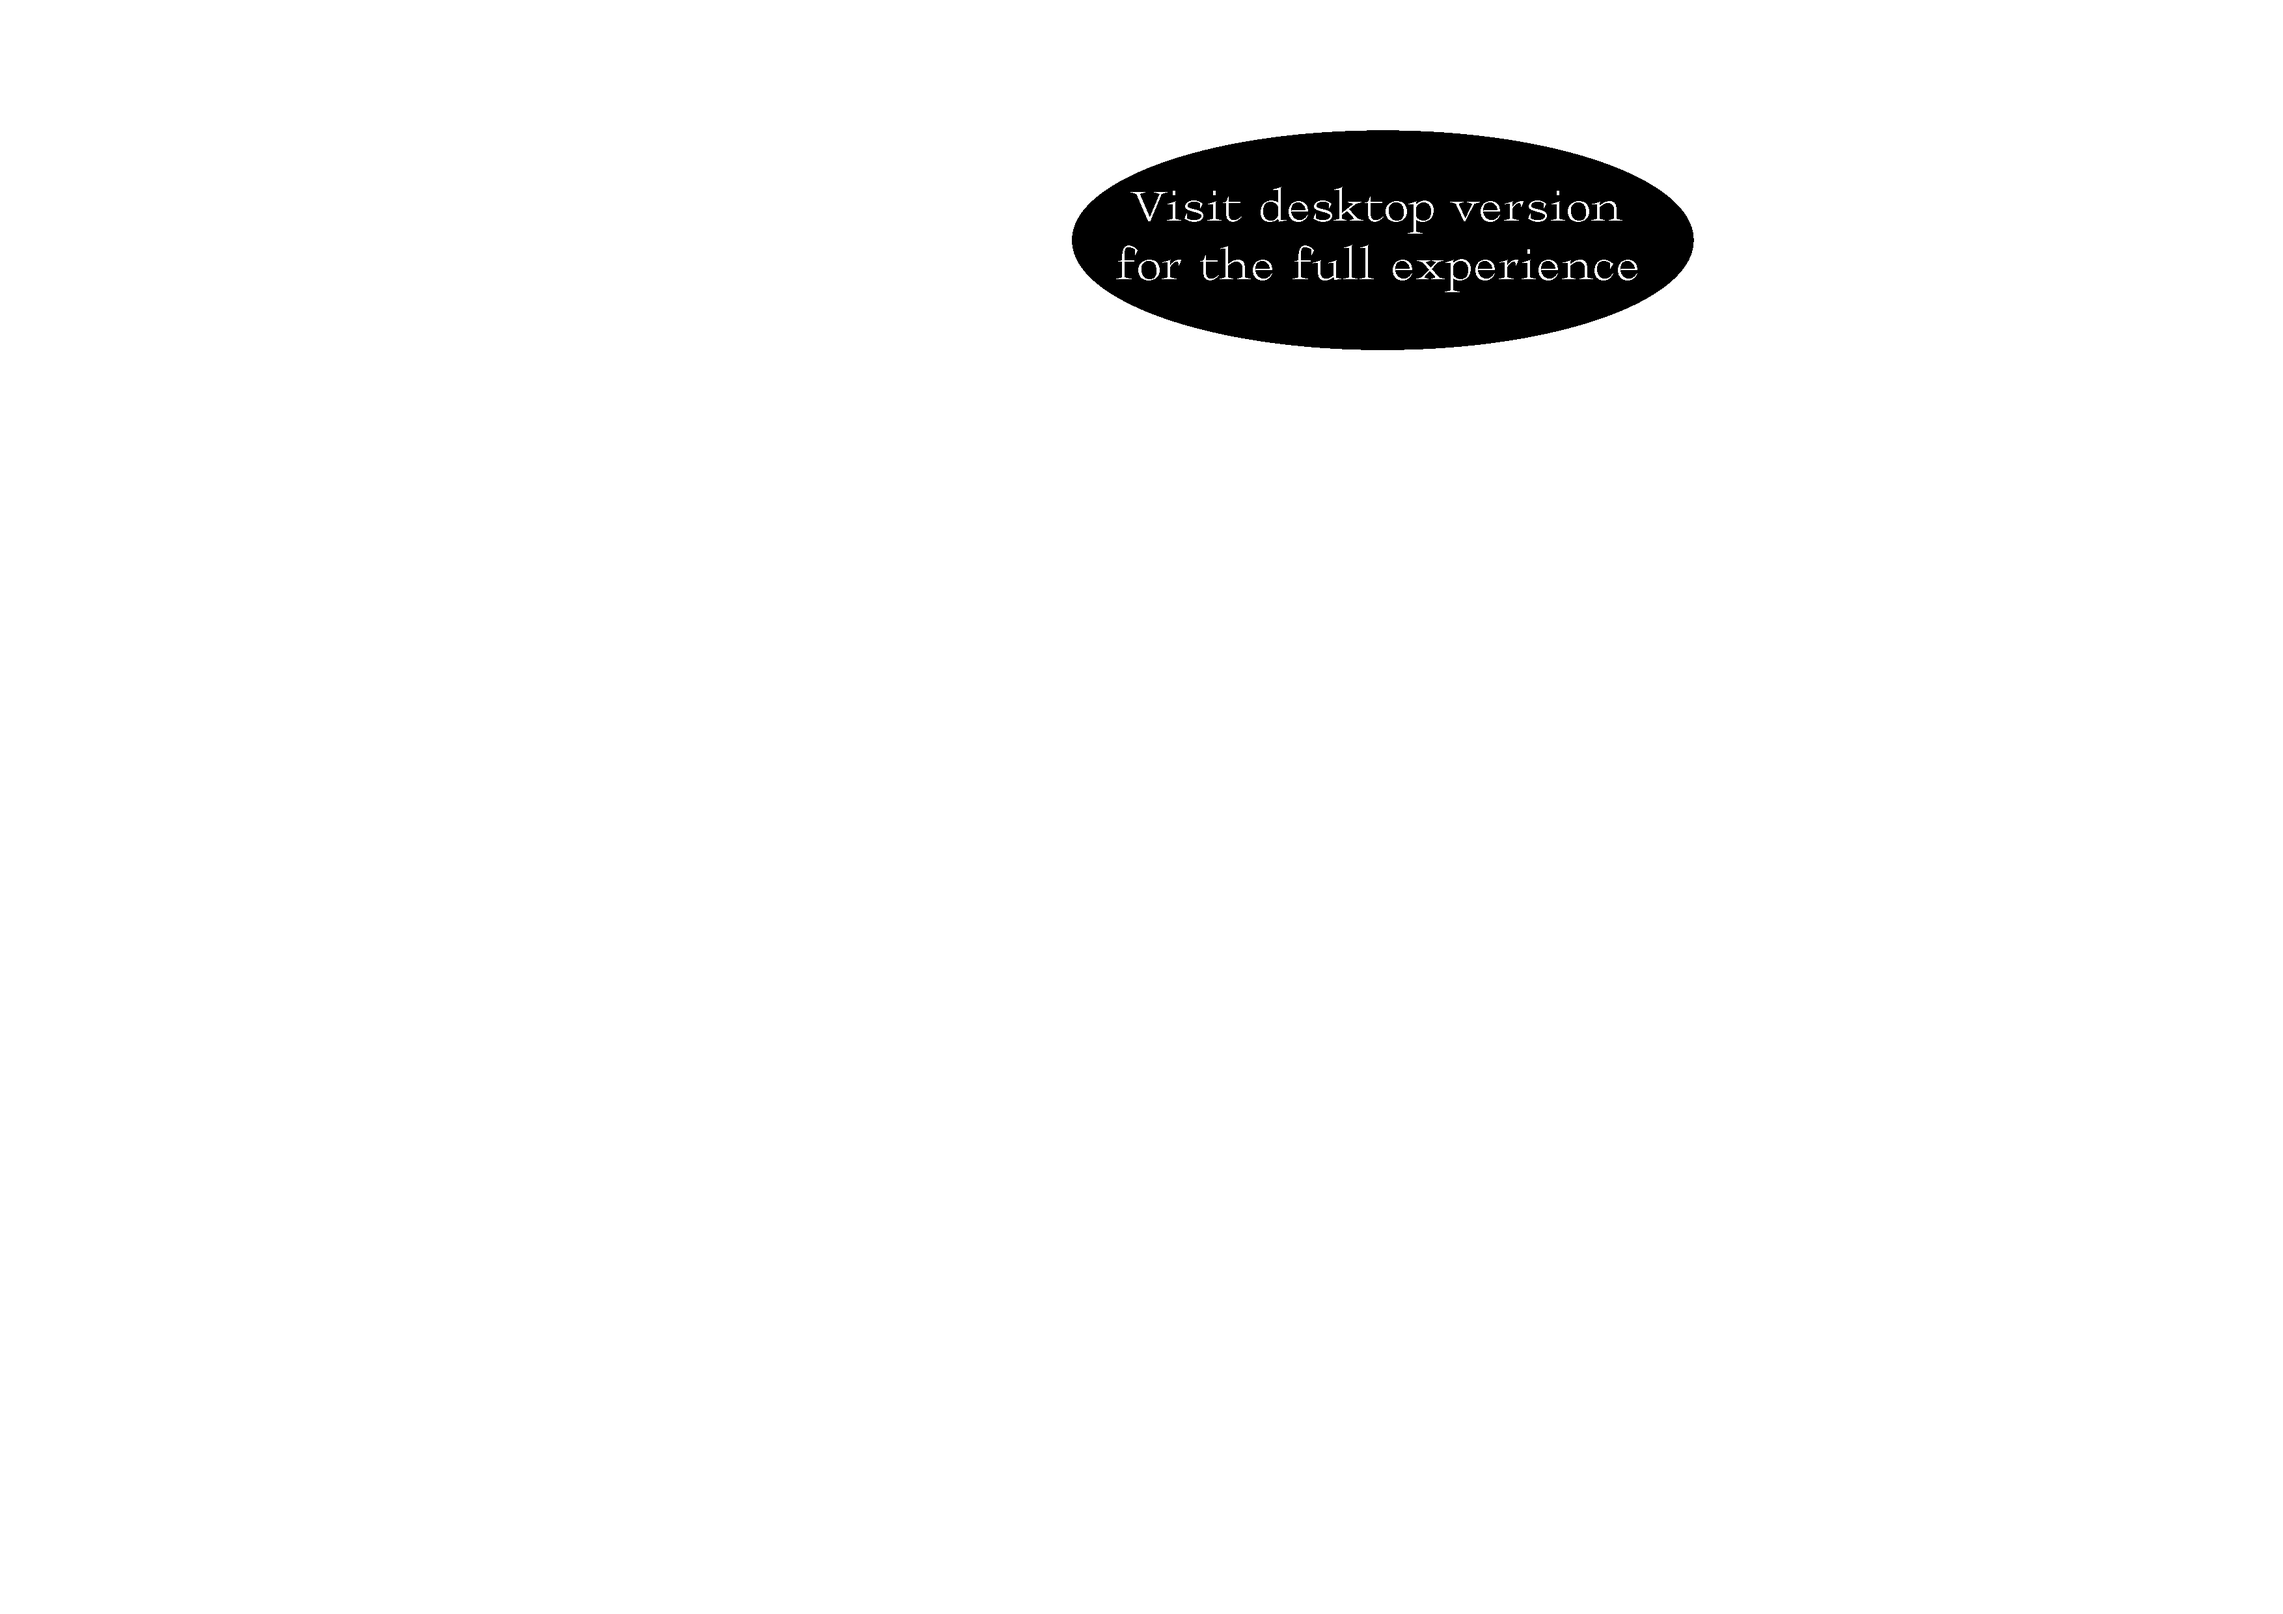
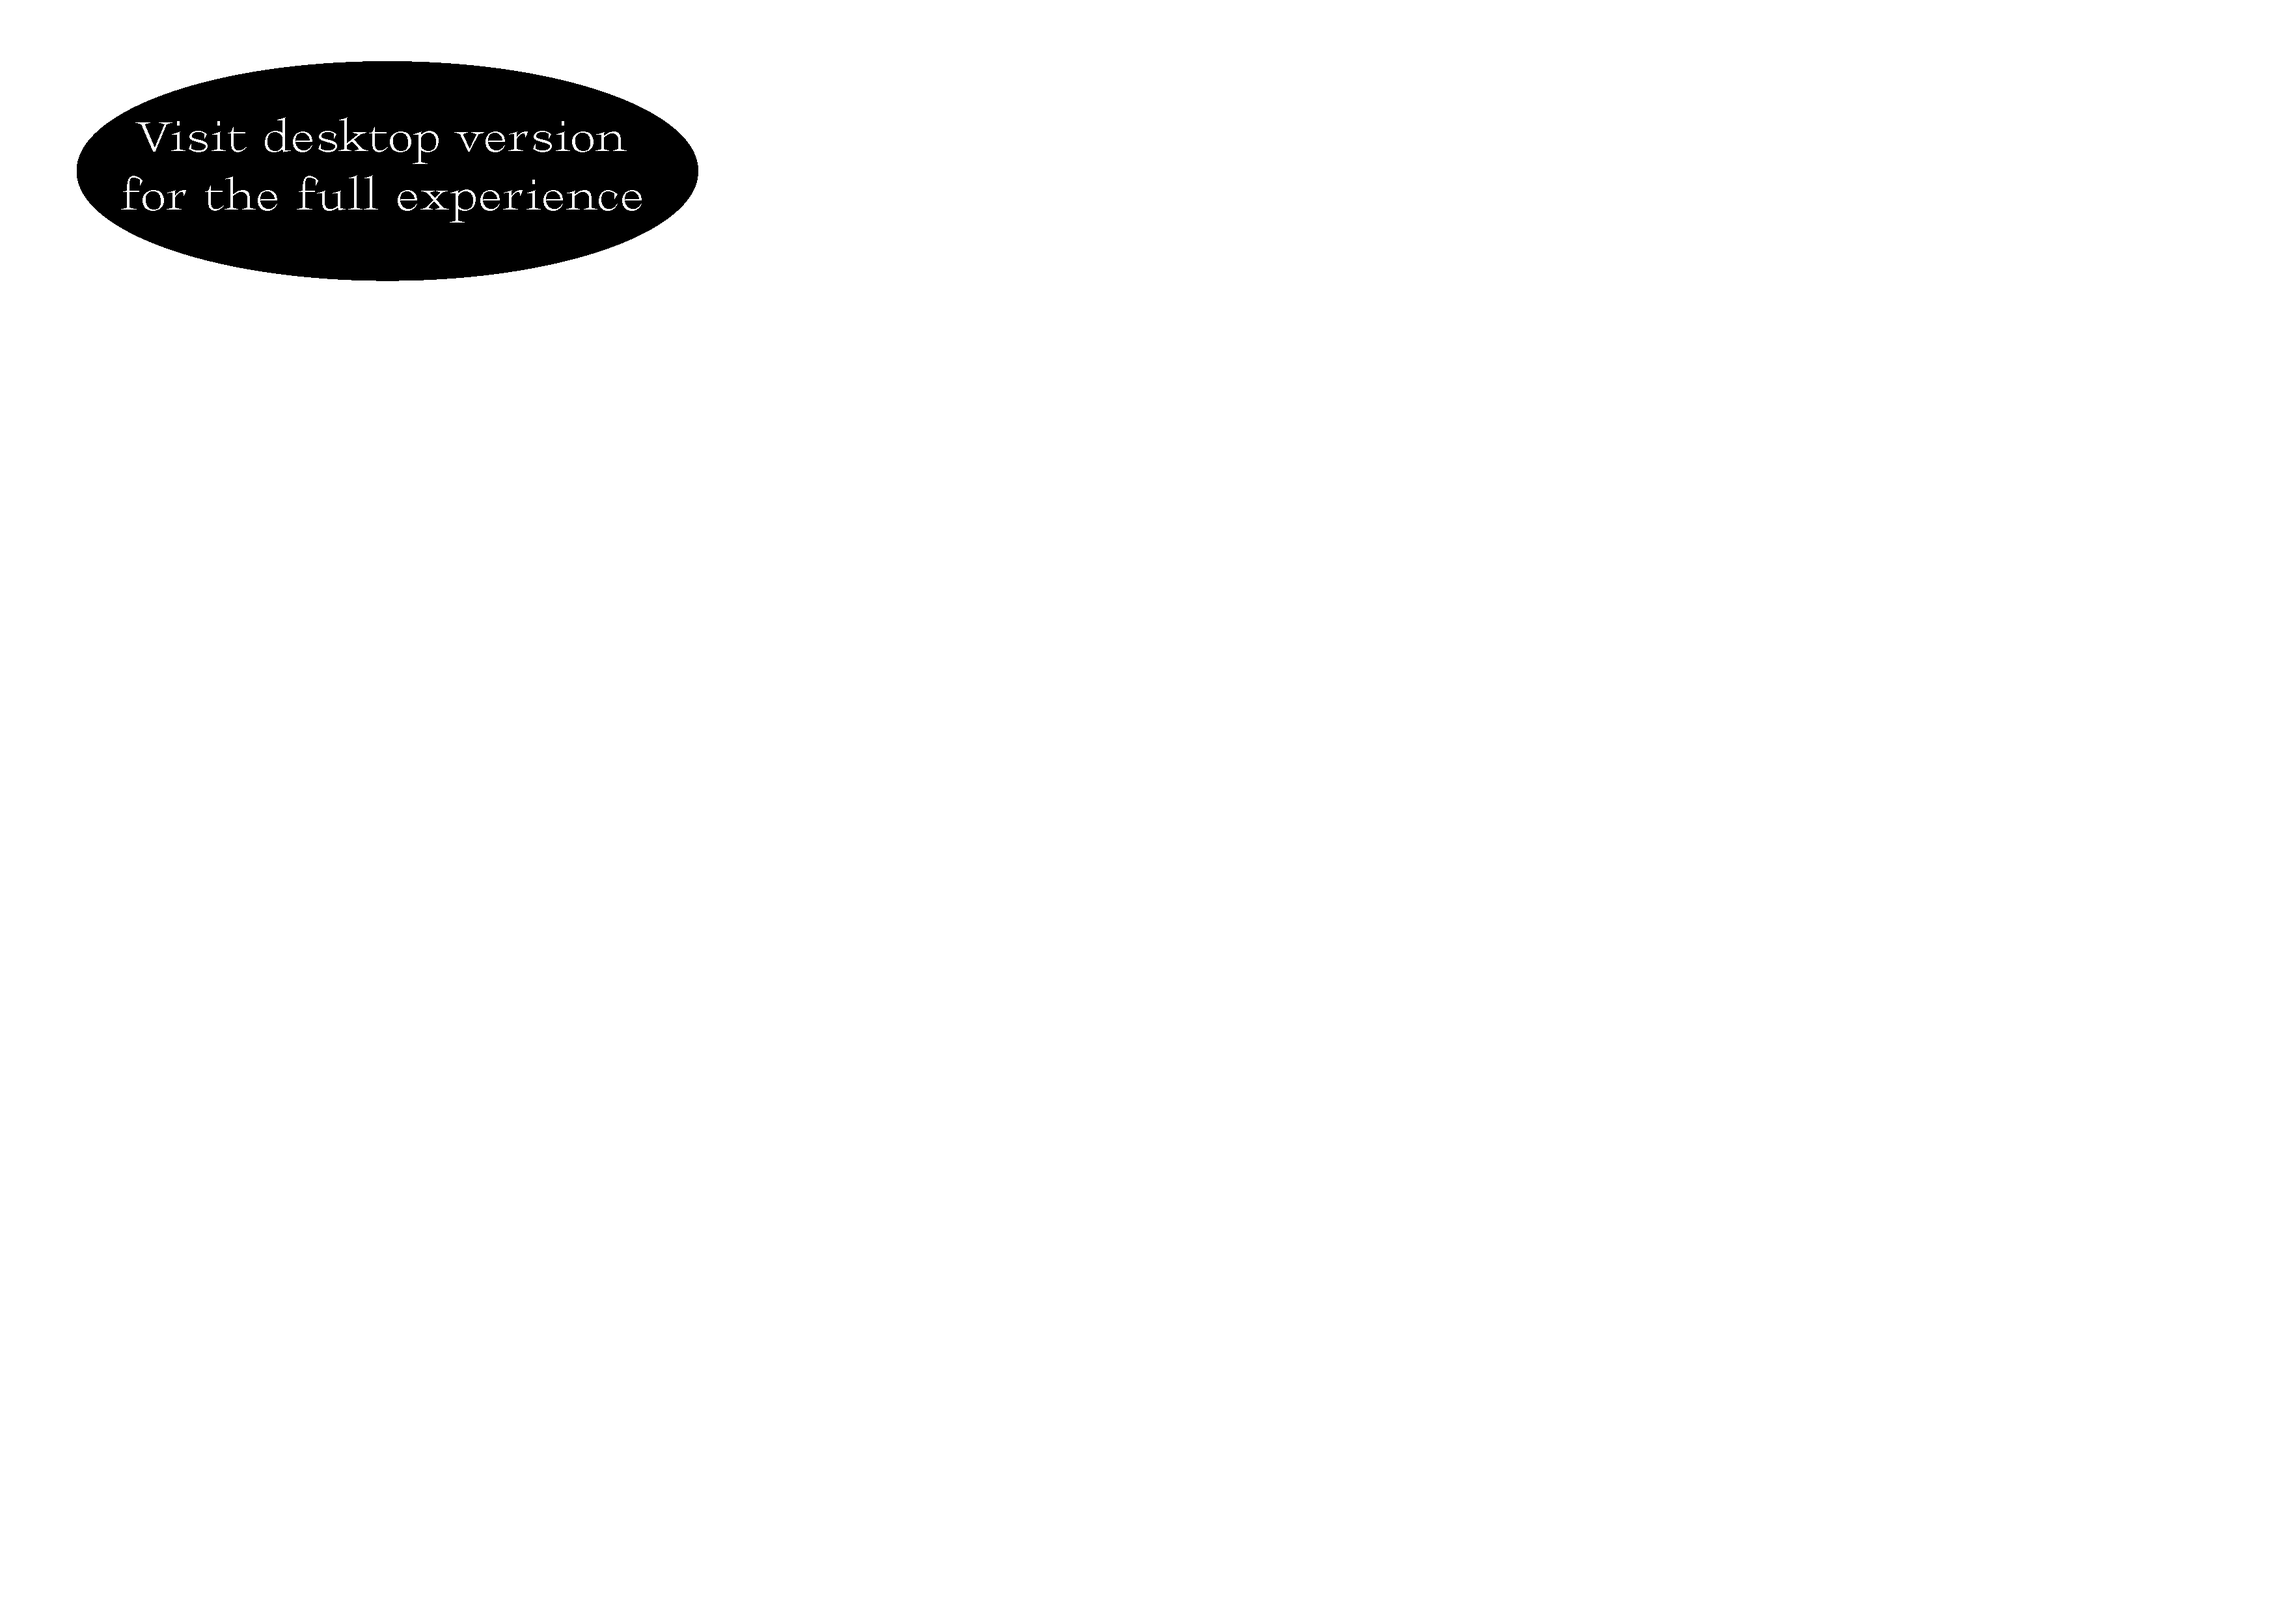
last i hope

Changed region(s): [[0.4661, 0.0621, 0.7457, 0.2173], [0.0311, 0.031, 0.3107, 0.1863]]

diff --git a/style/style.css b/style/style.css
@@ -283,8 +283,40 @@ width: 350px;
 position: absolute;
 top: 100px;
 right: 0px;
-left: 220px;
+left: 200px;
+width: 270px;
+}
+
+.board5 img {
+position: absolute;
+top: 900px;
+right: 0px;
+left: 1020px;
+width: 400px;
+}
+
+.board6 img {
+position: absolute;
+top: 800px;
+right: 0px;
+left: 680px;
 width: 200px;
+}
+
+.board7 img {
+position: absolute;
+top: 700px;
+right: 0px;
+left: 20px;
+width: 360px;
+}
+
+.board8 img {
+position: absolute;
+top: 480px;
+right: 0px;
+left: 1020px;
+width: 150px;
 }
 
 .submit-boards img {
@@ -696,6 +728,9 @@ left: 20px;
         }
 <a href="mailto:lesya@gmail.com?cc=someoneelse@theirsite.com, another@thatsite.com, me@mysite.com&bcc=lastperson@theirsite.com&subject=Big%20News&body=Body-goes-here">Email Us</a>
 
+<a href="mailto:lesya@gmail.com?cc=someoneelse@theirsite.com, another@thatsite.com, me@mysite.com&bcc=lastperson@theirsite.com&subject=Big%20News&body=Body-goes-here">Email Us</a>
+
+
 
 /* for hebrarium.html */
 /* .hebrarium img {
@@ -726,7 +761,7 @@ left: 20px;
         font-family:'halibut_serifregular';
 
 }
-.you-submit-boards {
+.you-submit-boards img {
 visibility: hidden;
       }
 
@@ -738,7 +773,7 @@ visibility: hidden;
       }
 
       }
-      .visit-desktop {
+      .visit-desktop img {
       visibility: hidden;
             }
 
@@ -746,6 +781,8 @@ visibility: hidden;
 
 
       @media (max-width: 500px) {
+
+
         .you-submit-boards img {
           position: fixed;
           top: 260px;
@@ -756,55 +793,19 @@ visibility: hidden;
 
         }
 
-        .visit-desktop {
+        .visit-desktop-mobile img {
           position: fixed;
-          top: 160px;
-          right: 0px;
-          left: 10px;
-          width: 950px;
+          top: 260px;
+          right: 30px;
+          left: -50px;
+          width: 850px;
           transform: rotate(10deg);
-              }
-
-        .mobile-container {
-          width: 100%;
-          height: 100%;
-          display: flex;
-          flex-direction: row;
-          justify-content: center;
-
-          position: fixed;
-          width: 200px;
-          top: 0px;
-
-        }
-
-          .mobile-box {
-            display: flex;
-            font-size: 23px;
-            font-family:'halibut_serifregular';
 
           }
-
-
-          .mobile-item {
-            width: 100%;
-            height: 100%;
-            padding: 10px;
-            flex-grow: 1;
-          }
-
-          .mobile-box a {
-           font-family:'halibut_serifregular';
-           text-decoration: none;
-           color: #000000;
-
-         }
 
         .submit-boards {
         visibility: hidden;
-              }
-
-
+        }
 
               .box {
                 visibility: hidden;
@@ -813,10 +814,8 @@ visibility: hidden;
                 visibility: hidden;
               }
 
+            .visuals {
+            visibility: hidden;
+           }
 
-
-.visuals {
-visibility: hidden;
-
-      }
     }

diff --git a/index.html b/index.html
@@ -11,8 +11,6 @@
   <body>
 
 
-
-    <div style="overflow-y: scroll; height:400px;">
       <div class="box">
         <div class="item">
       <p>Lesya Kuranova</p>
@@ -30,6 +28,24 @@
         </div>
       </div>
 
+      <div style="overflow-y: scroll; height:400px;">
+     <div class="mobile-box">
+
+
+     <div class="you-submit-boards"
+     <a href="mailto:someone@yoursite.com" ><img src="images/submit-lesya-kuranova.png" alt=""></a>
+     </div>
+
+       <div class="visit-desktop">
+         <img src="images/visit-desktop-lesya-kuranova.png" alt=""></a>
+         </div>
+
+         <div class="visit-desktop-mobile">
+           <img src="images/visit-desktop-lesya-kuranova.png" alt=""></a>
+           </div>
+
+       </div>
+       </div>
 
 
 
@@ -107,24 +123,8 @@
 
  </div>
  </div>
- </div>
-  <div style="overflow-y: scroll; height:400px;">
- <div class="you-submit-boards"
- <a href="mailto:someone@yoursite.com" ><img src="images/submit-lesya-kuranova.png" alt=""></a>
- </div>
 
 
-   <div class="mobile-box">
-     <div class="mobile-item">
-   <p>Lesya Kuranova</p>
-
-   <div class="visit-desktop">
-     <p><img src="images/visit-desktop-lesya-kuranova.png"></p>
-  </div>
-
-
-   </div>
-   </div>
 
 
 

diff --git a/yourboards.html b/yourboards.html
@@ -24,6 +24,18 @@
       <div class="board4">
       <a href="index.html"><img src="images/board-4-lesya-kuranova.jpg" alt=""></a>
       </div>
+      <div class="board5">
+      <a href="index.html"><img src="images/board-5-lesya-kuranova.jpg" alt=""></a>
+      </div>
+      <div class="board6">
+      <a href="index.html"><img src="images/board-6-lesya-kuranova.png" alt=""></a>
+      </div>
+      <div class="board7">
+      <a href="index.html"><img src="images/board-7-lesya-kuranova.png" alt=""></a>
+      </div>
+      <div class="board8">
+      <a href="index.html"><img src="images/board-8-lesya-kuranova.png" alt=""></a>
+      </div>
 
       <div class="submit-boards"
       <a href="mailto:someone@yoursite.com" ><img src="images/submit-lesya-kuranova.png" alt=""></a>
